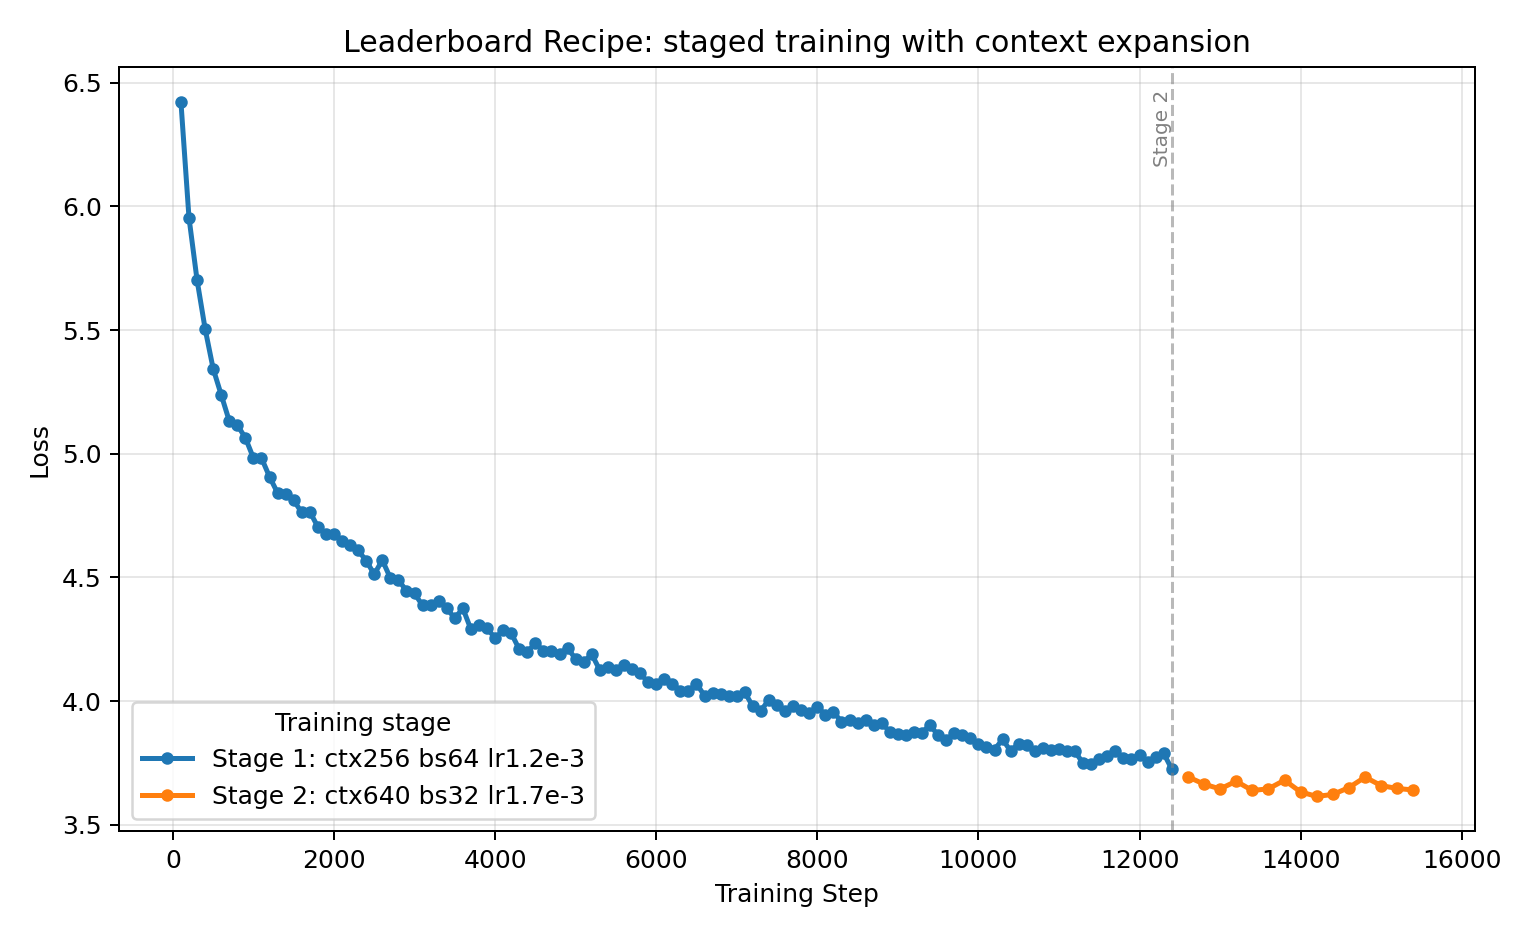
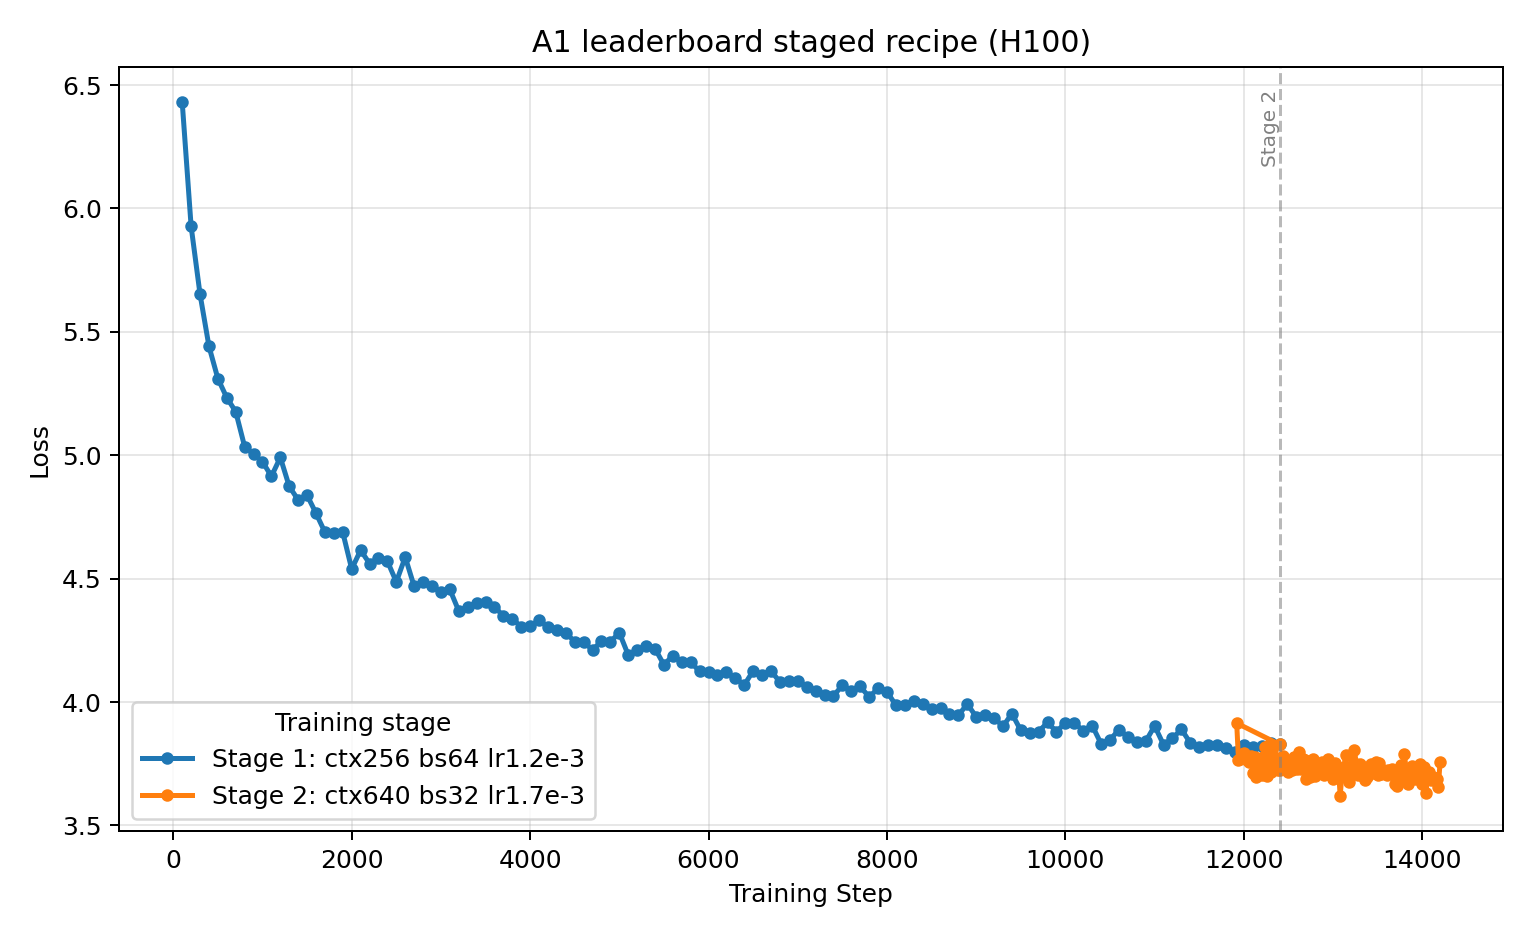
Update A1 leaderboard with H100 rerun

diff --git a/writeup.md b/writeup.md
@@ -642,13 +642,13 @@ There are several reasons the output quality is worse despite using the same arc
 
 **Answer:**
 
-My final leaderboard recipe was a staged continuation recipe on OpenWebText. I first trained a stronger `8 x 1024` backbone (`8` layers, `d_model=1024`, `d_ff=2688`, `32` heads) with `context_length=256` and `batch_size=64`. I then continued from its best checkpoint with a larger context window and a smaller batch size, using `context_length=640`, `batch_size=32`, and a retuned continuation learning rate of about `1.7e-3`. The best validation loss I obtained from this recipe was `3.6146` at training step `14200`.
+My final leaderboard recipe was a staged continuation recipe on OpenWebText. I first trained a stronger `8 x 1024` backbone (`8` layers, `d_model=1024`, `d_ff=2688`, `32` heads) with `context_length=256` and `batch_size=64`. I then continued from its best checkpoint with a larger context window and a smaller batch size, using `context_length=640`, `batch_size=32`, and a retuned continuation learning rate of about `1.7e-3`. On an H100, the best validation loss I obtained from this recipe was `3.6178` at training step `13080`.
 
-All wall-clock numbers reported here are the raw measurements from my H800 runs. Because the assignment specifies an H100 budget but does not provide an official H800-to-H100 conversion rule, I report the measured H800 wall-clock transparently and avoid claiming an exact normalized H100-hour equivalence for this staged recipe.
+All wall-clock numbers reported here are direct H100 measurements. The staged run completed within the 1.5 H100-hour budget: the first stage took `2928.10` seconds, the second stage took `1082.56` seconds, and the full staged training run took `4010.65` seconds (`1.11` hours). The best validation point occurred after `3487.55` seconds on the cumulative evaluation-time curve.
 
 The decision process was staged. I first strengthened the OpenWebText baseline, then compared wider/deeper model variants under short matched-budget pilots. Those runs showed that extra depth alone was not cost-effective, while a wider model around `d_model=1024` was much more promising. After a coarse learning-rate sweep, the `8 x 1024` backbone became the main line. I then used continuation probes to map the context-length frontier: increasing context was useful, but only when I reduced batch size enough to fit in memory. This led to the final `ctx640, bs32` continuation setting. I also checked a smaller-model control line with longer context, but it never became competitive, which suggested that the gain came from combining a stronger backbone with a larger usable context window.
 
-The figure below shows the full staged training curve with cumulative wall-clock time. The first stage (`ctx256`, `bs64`) steadily improves validation loss until it reaches `3.7254` at step `12400`. The second stage (`ctx640`, `bs32`) starts from that checkpoint and quickly gives an additional drop, reaching the overall best value `3.6146` at step `14200` after `10355.5` seconds of cumulative H800 wall-clock time. The key qualitative feature is that most of the gain from the second stage arrives early, after which the loss oscillates instead of improving monotonically. In other words, increasing the effective context on top of the stronger backbone was clearly useful, but the best checkpoint occurred before the end of the continuation rather than at the final step.
+The figure below shows the full staged training curve with cumulative H100 wall-clock time. The first stage (`ctx256`, `bs64`) reached a best validation loss of `3.7979` at step `11900` and ended at `3.8283` at step `12400`. The second stage (`ctx640`, `bs32`) starts from that checkpoint and quickly gives an additional drop, reaching the overall best value `3.6178` at step `13080` after `3487.55` seconds of cumulative wall-clock time. The run continued to step `14200`, ending at validation loss `3.7579` after `4004.50` seconds on the plotted evaluation curve. The key qualitative feature is that most of the gain from the second stage arrives early, after which the loss oscillates instead of improving monotonically. In other words, increasing the effective context on top of the stronger backbone was clearly useful, but the best checkpoint occurred before the end of the continuation rather than at the final step.
 
 This result should be interpreted as a leaderboard-oriented continuation recipe rather than as a single uninterrupted from-scratch run. I think it is still informative because the final recipe came from a consistent sequence of small controlled decisions, and the final staged curve shows clearly where the additional gain came from.
 

diff --git a/artifacts/experiments/ch7/7_5_1/figures/leaderboard_ctx640_bs32_segmented_recipe/val_loss_summary.md b/artifacts/experiments/ch7/7_5_1/figures/leaderboard_ctx640_bs32_segmented_recipe/val_loss_summary.md
@@ -1,8 +1,8 @@
 # Segmented recipe summary (val loss)
 
-Overall best loss: `3.614600` at step `14200` and cumulative wallclock `10355.53s`.
+Overall best loss: `3.617796` at step `13080` and cumulative wallclock `3487.55s`.
 
 | Stage | Step range | Final value | Best value | Best step | Final cumulative wallclock (s) |
 |---|---|---:|---:|---:|---:|
-| Stage 1: ctx256 bs64 lr1.2e-3 | 100 -> 12400 | 3.725384 | 3.725384 | 12400 | 8485.41 |
-| Stage 2: ctx640 bs32 lr1.7e-3 | 12600 -> 15400 | 3.640456 | 3.614600 | 14200 | 11596.83 |
+| Stage 1: ctx256 bs64 lr1.2e-3 | 100 -> 12400 | 3.828309 | 3.797937 | 11900 | 2925.36 |
+| Stage 2: ctx640 bs32 lr1.7e-3 | 12400 -> 14200 | 3.757902 | 3.617796 | 13080 | 4004.50 |

diff --git a/artifacts/experiments/ch7/7_5_1/README.md b/artifacts/experiments/ch7/7_5_1/README.md
@@ -2,6 +2,12 @@
 
 This directory stores durable artifacts for the optional leaderboard section.
 
+The current writeup-facing segmented recipe artifacts are from the H100 rerun on
+2026-06-27. The best validation loss was `3.617796` at step `13080`, after
+`3487.55` seconds on the cumulative evaluation-time curve. The full staged
+training run completed in `4010.65` seconds (`1.11` hours), within the 1.5
+H100-hour budget.
+
 Recommended structure:
 
 - `figures/`
